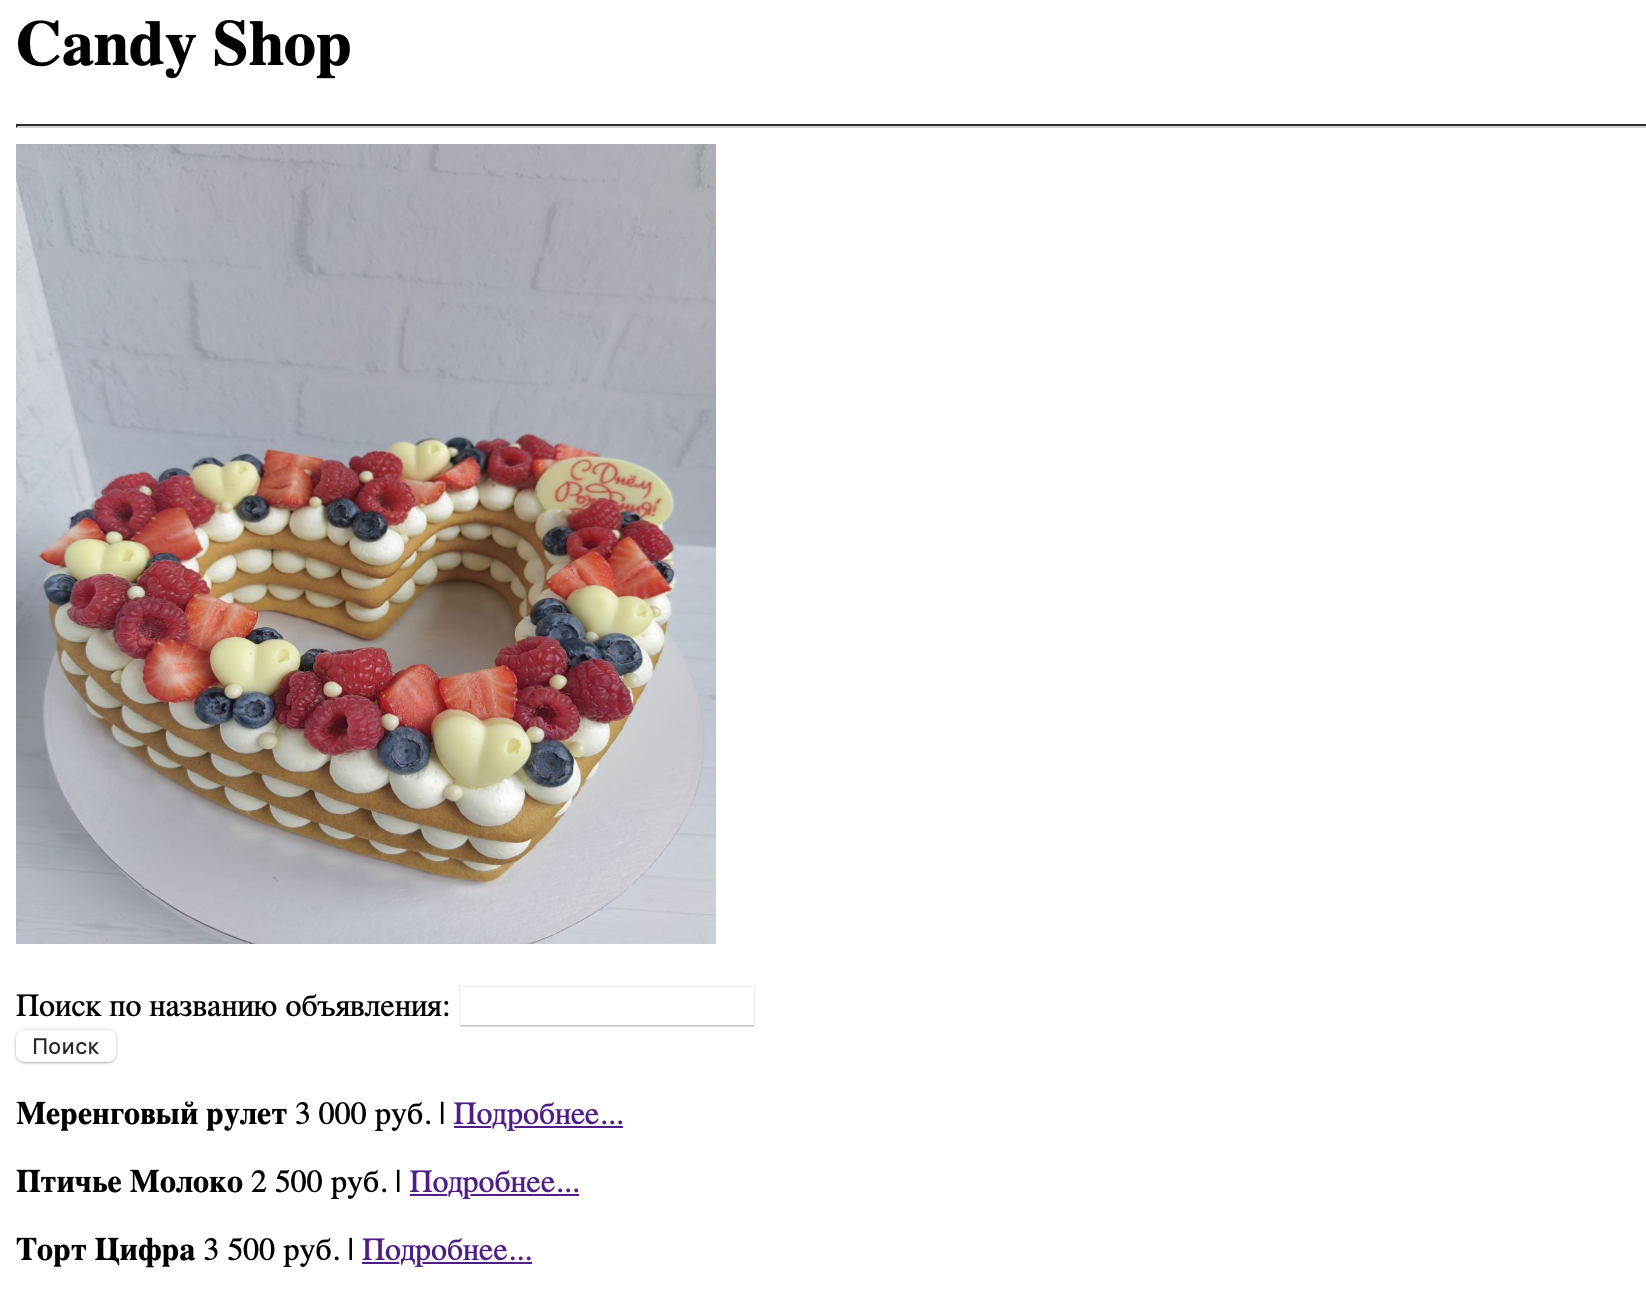
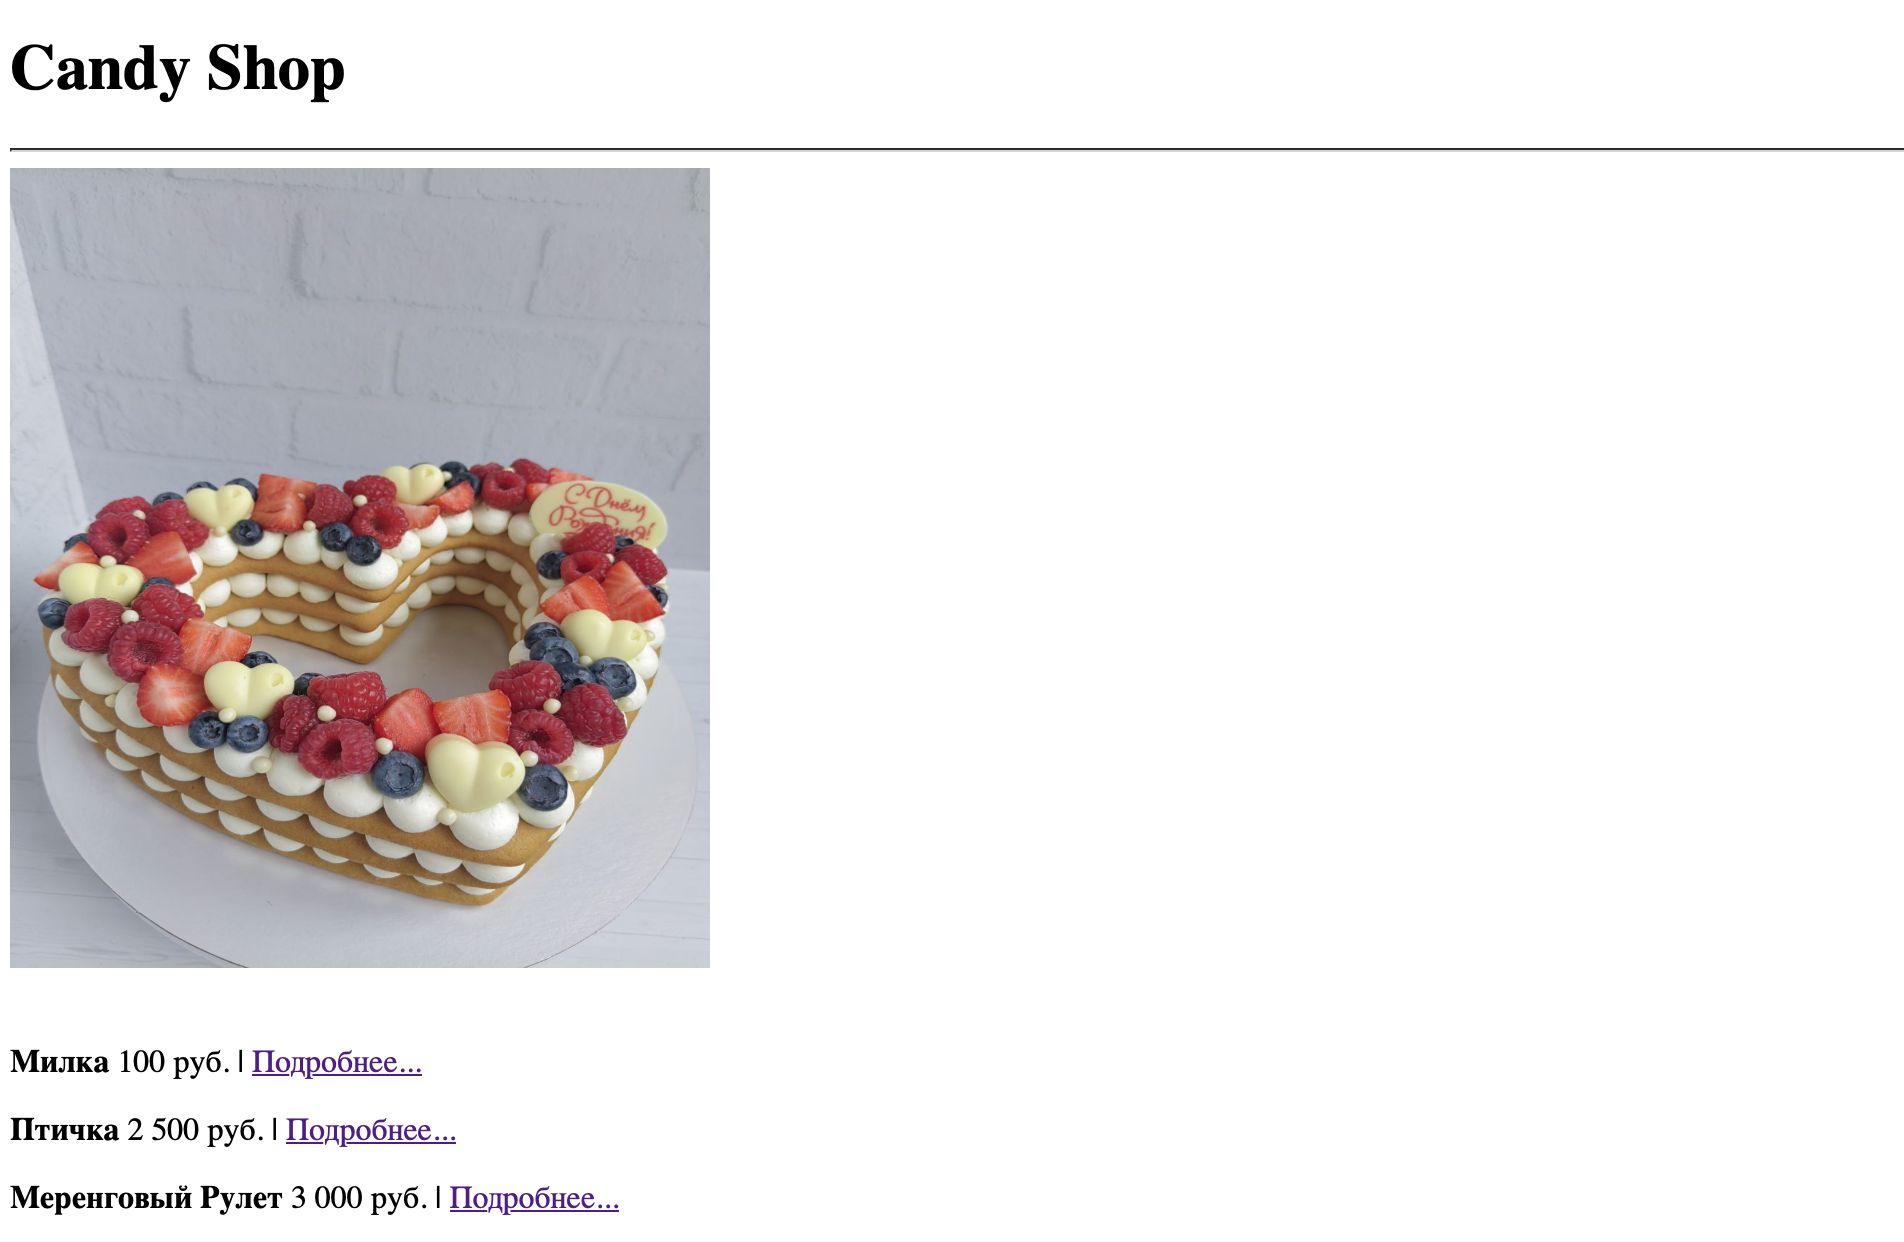
Deleting wrong search by title

Changed region(s): [[0.0, 0.0, 1.0, 0.9791]]

diff --git a/src/main/java/com/pelmeshka/Cakes/services/ProductService.java b/src/main/java/com/pelmeshka/Cakes/services/ProductService.java
@@ -17,10 +17,8 @@ import java.util.List;
 public class ProductService {
     private final ProductRepository productRepository;
 
-    public List<Product> getProducts(String title) {
-        if (title != null) {
-            return productRepository.findByTitle(title);
-        } return productRepository.findAll();
+    public List<Product> getProducts() {
+        return productRepository.findAll();
     }
 
     public Product findProductById(Long id) {

diff --git a/src/main/java/com/pelmeshka/Cakes/controllers/ProductController.java b/src/main/java/com/pelmeshka/Cakes/controllers/ProductController.java
@@ -16,8 +16,8 @@ public class ProductController {
     private final ProductService productService;
 
     @GetMapping("/")
-    public String products(@RequestParam(name = "title", required = false) String title, Model model) {
-        model.addAttribute("products", productService.getProducts(title));
+    public String products(Model model) {
+        model.addAttribute("products", productService.getProducts());
         return "products";
     }
 

diff --git a/src/main/java/com/pelmeshka/Cakes/models/Image.java b/src/main/java/com/pelmeshka/Cakes/models/Image.java
@@ -4,6 +4,7 @@ import jakarta.persistence.*;
 import lombok.AllArgsConstructor;
 import lombok.Data;
 import lombok.NoArgsConstructor;
+import org.hibernate.annotations.Type;
 
 @Entity
 @Table(name = "images")

diff --git a/src/main/java/com/pelmeshka/Cakes/CakesApplication.java b/src/main/java/com/pelmeshka/Cakes/CakesApplication.java
@@ -1,5 +1,6 @@
 package com.pelmeshka.Cakes;
 
+
 import org.springframework.boot.SpringApplication;
 import org.springframework.boot.autoconfigure.SpringBootApplication;
 
